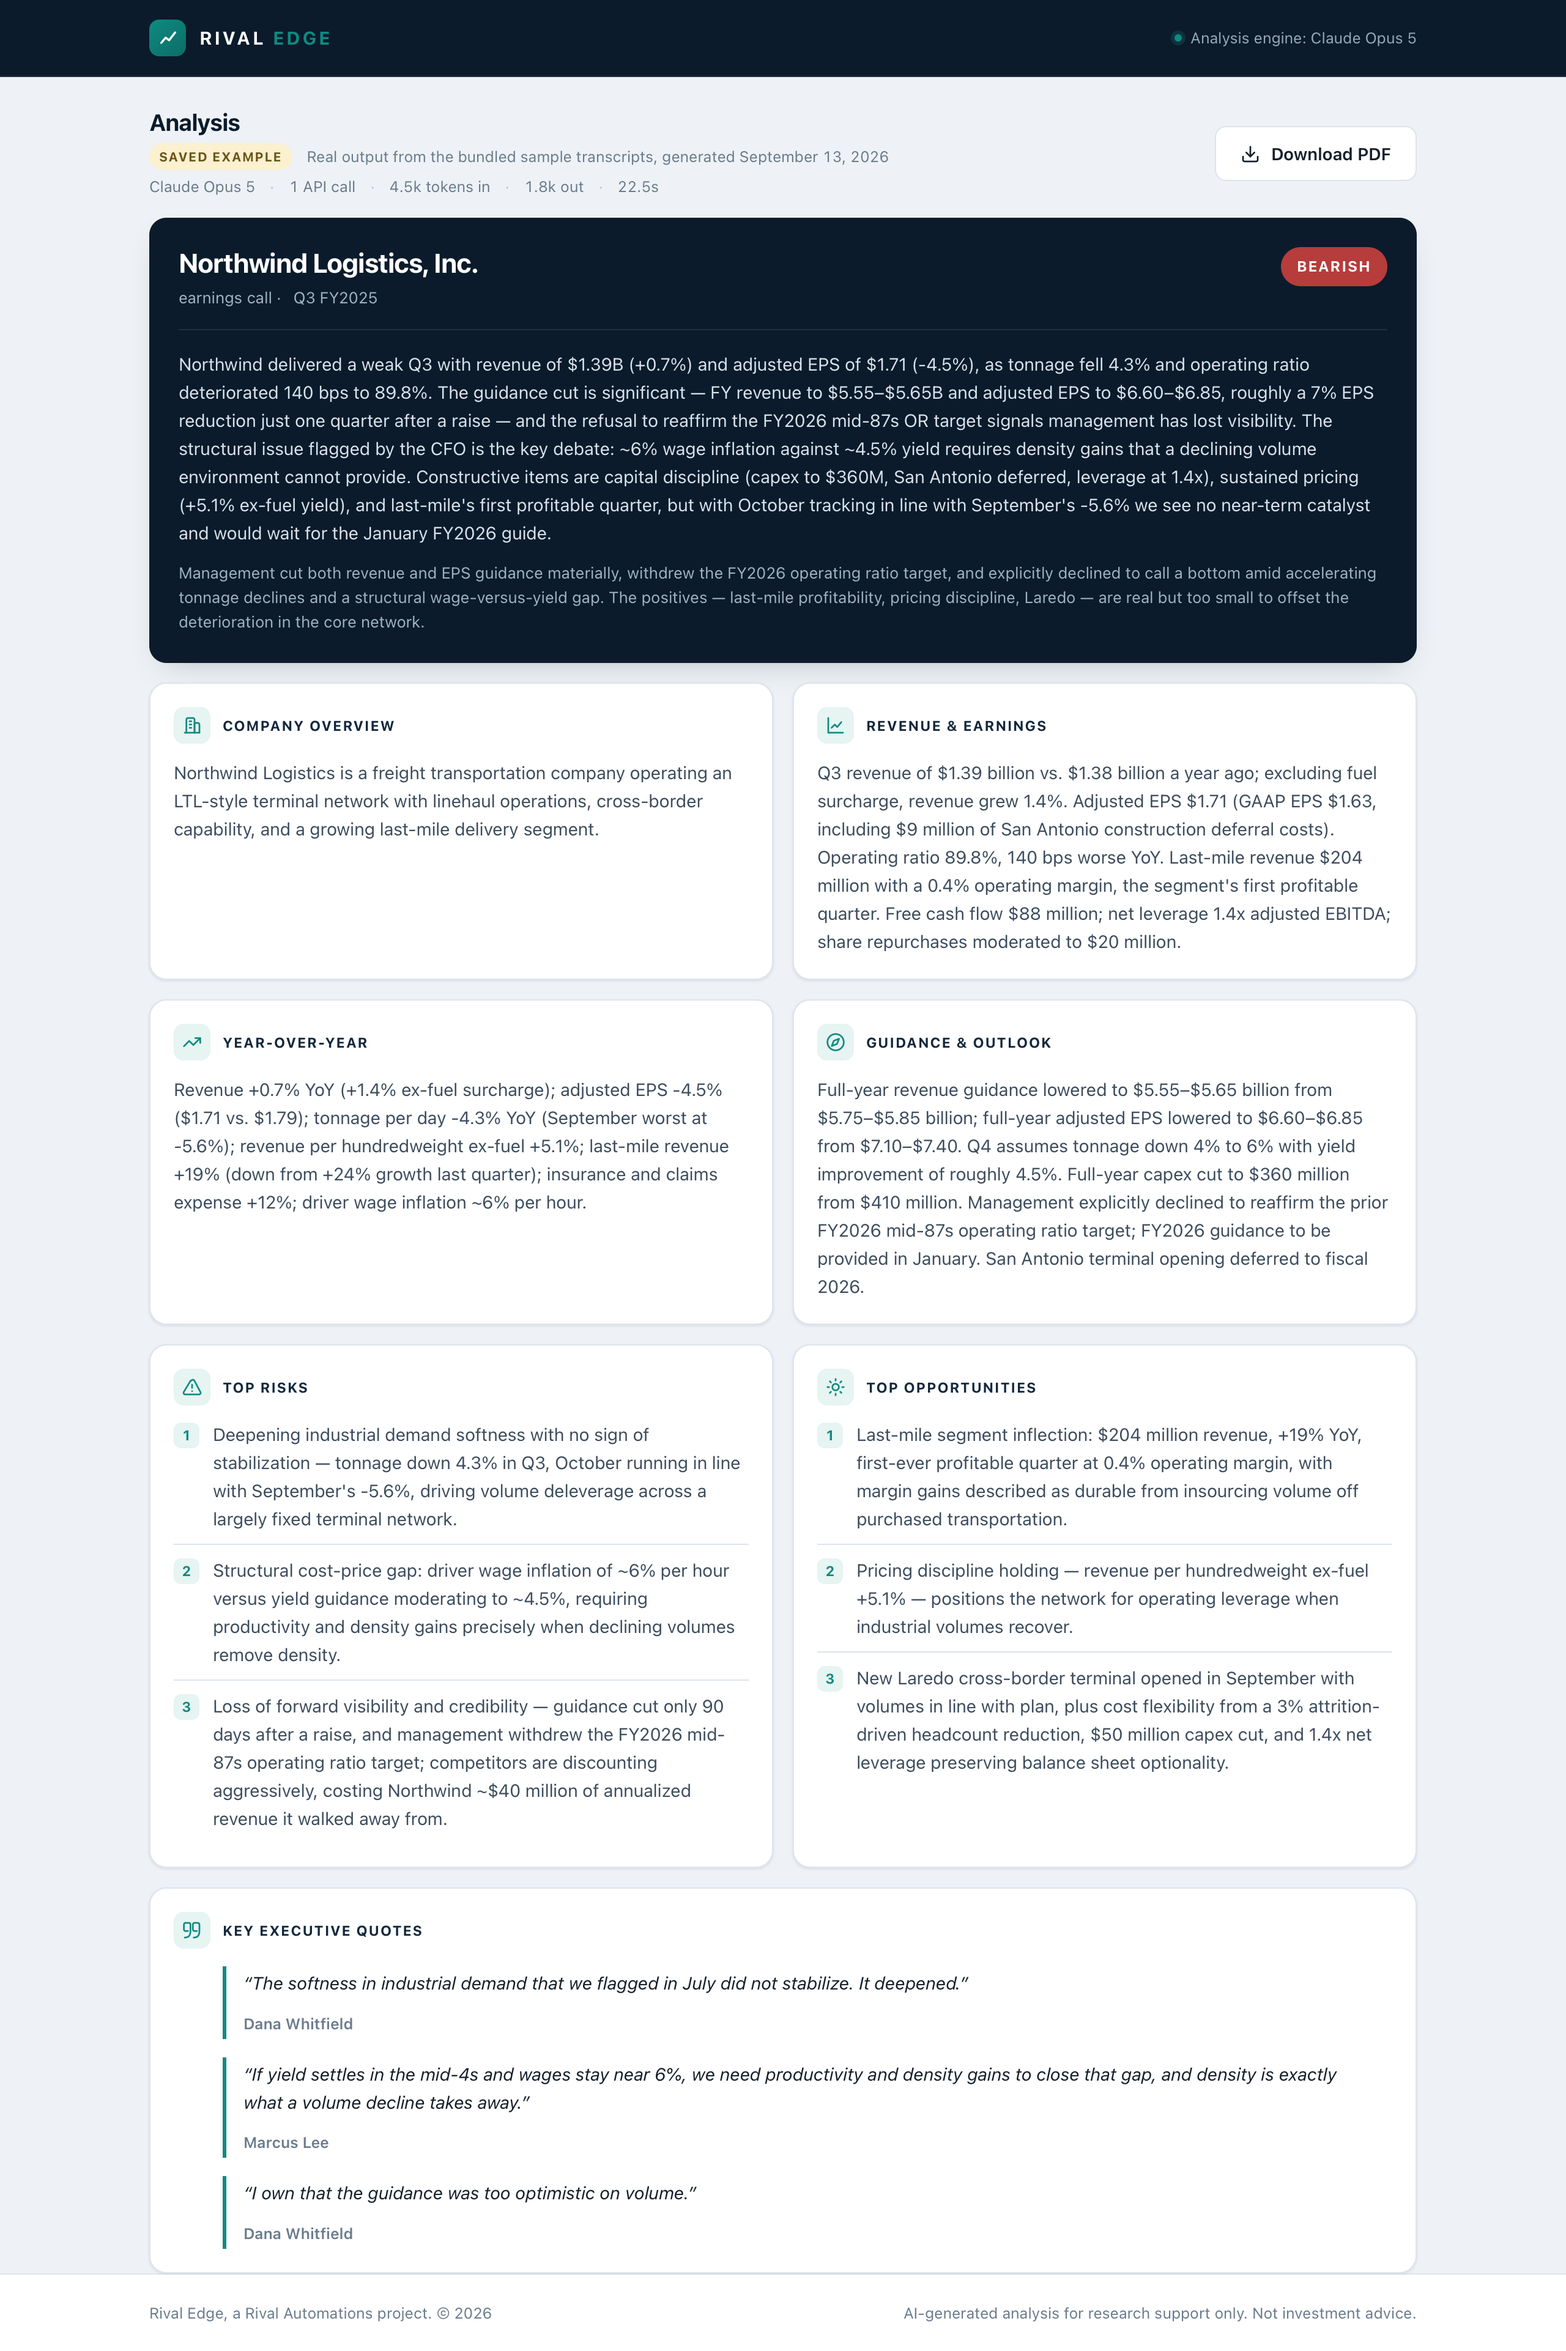
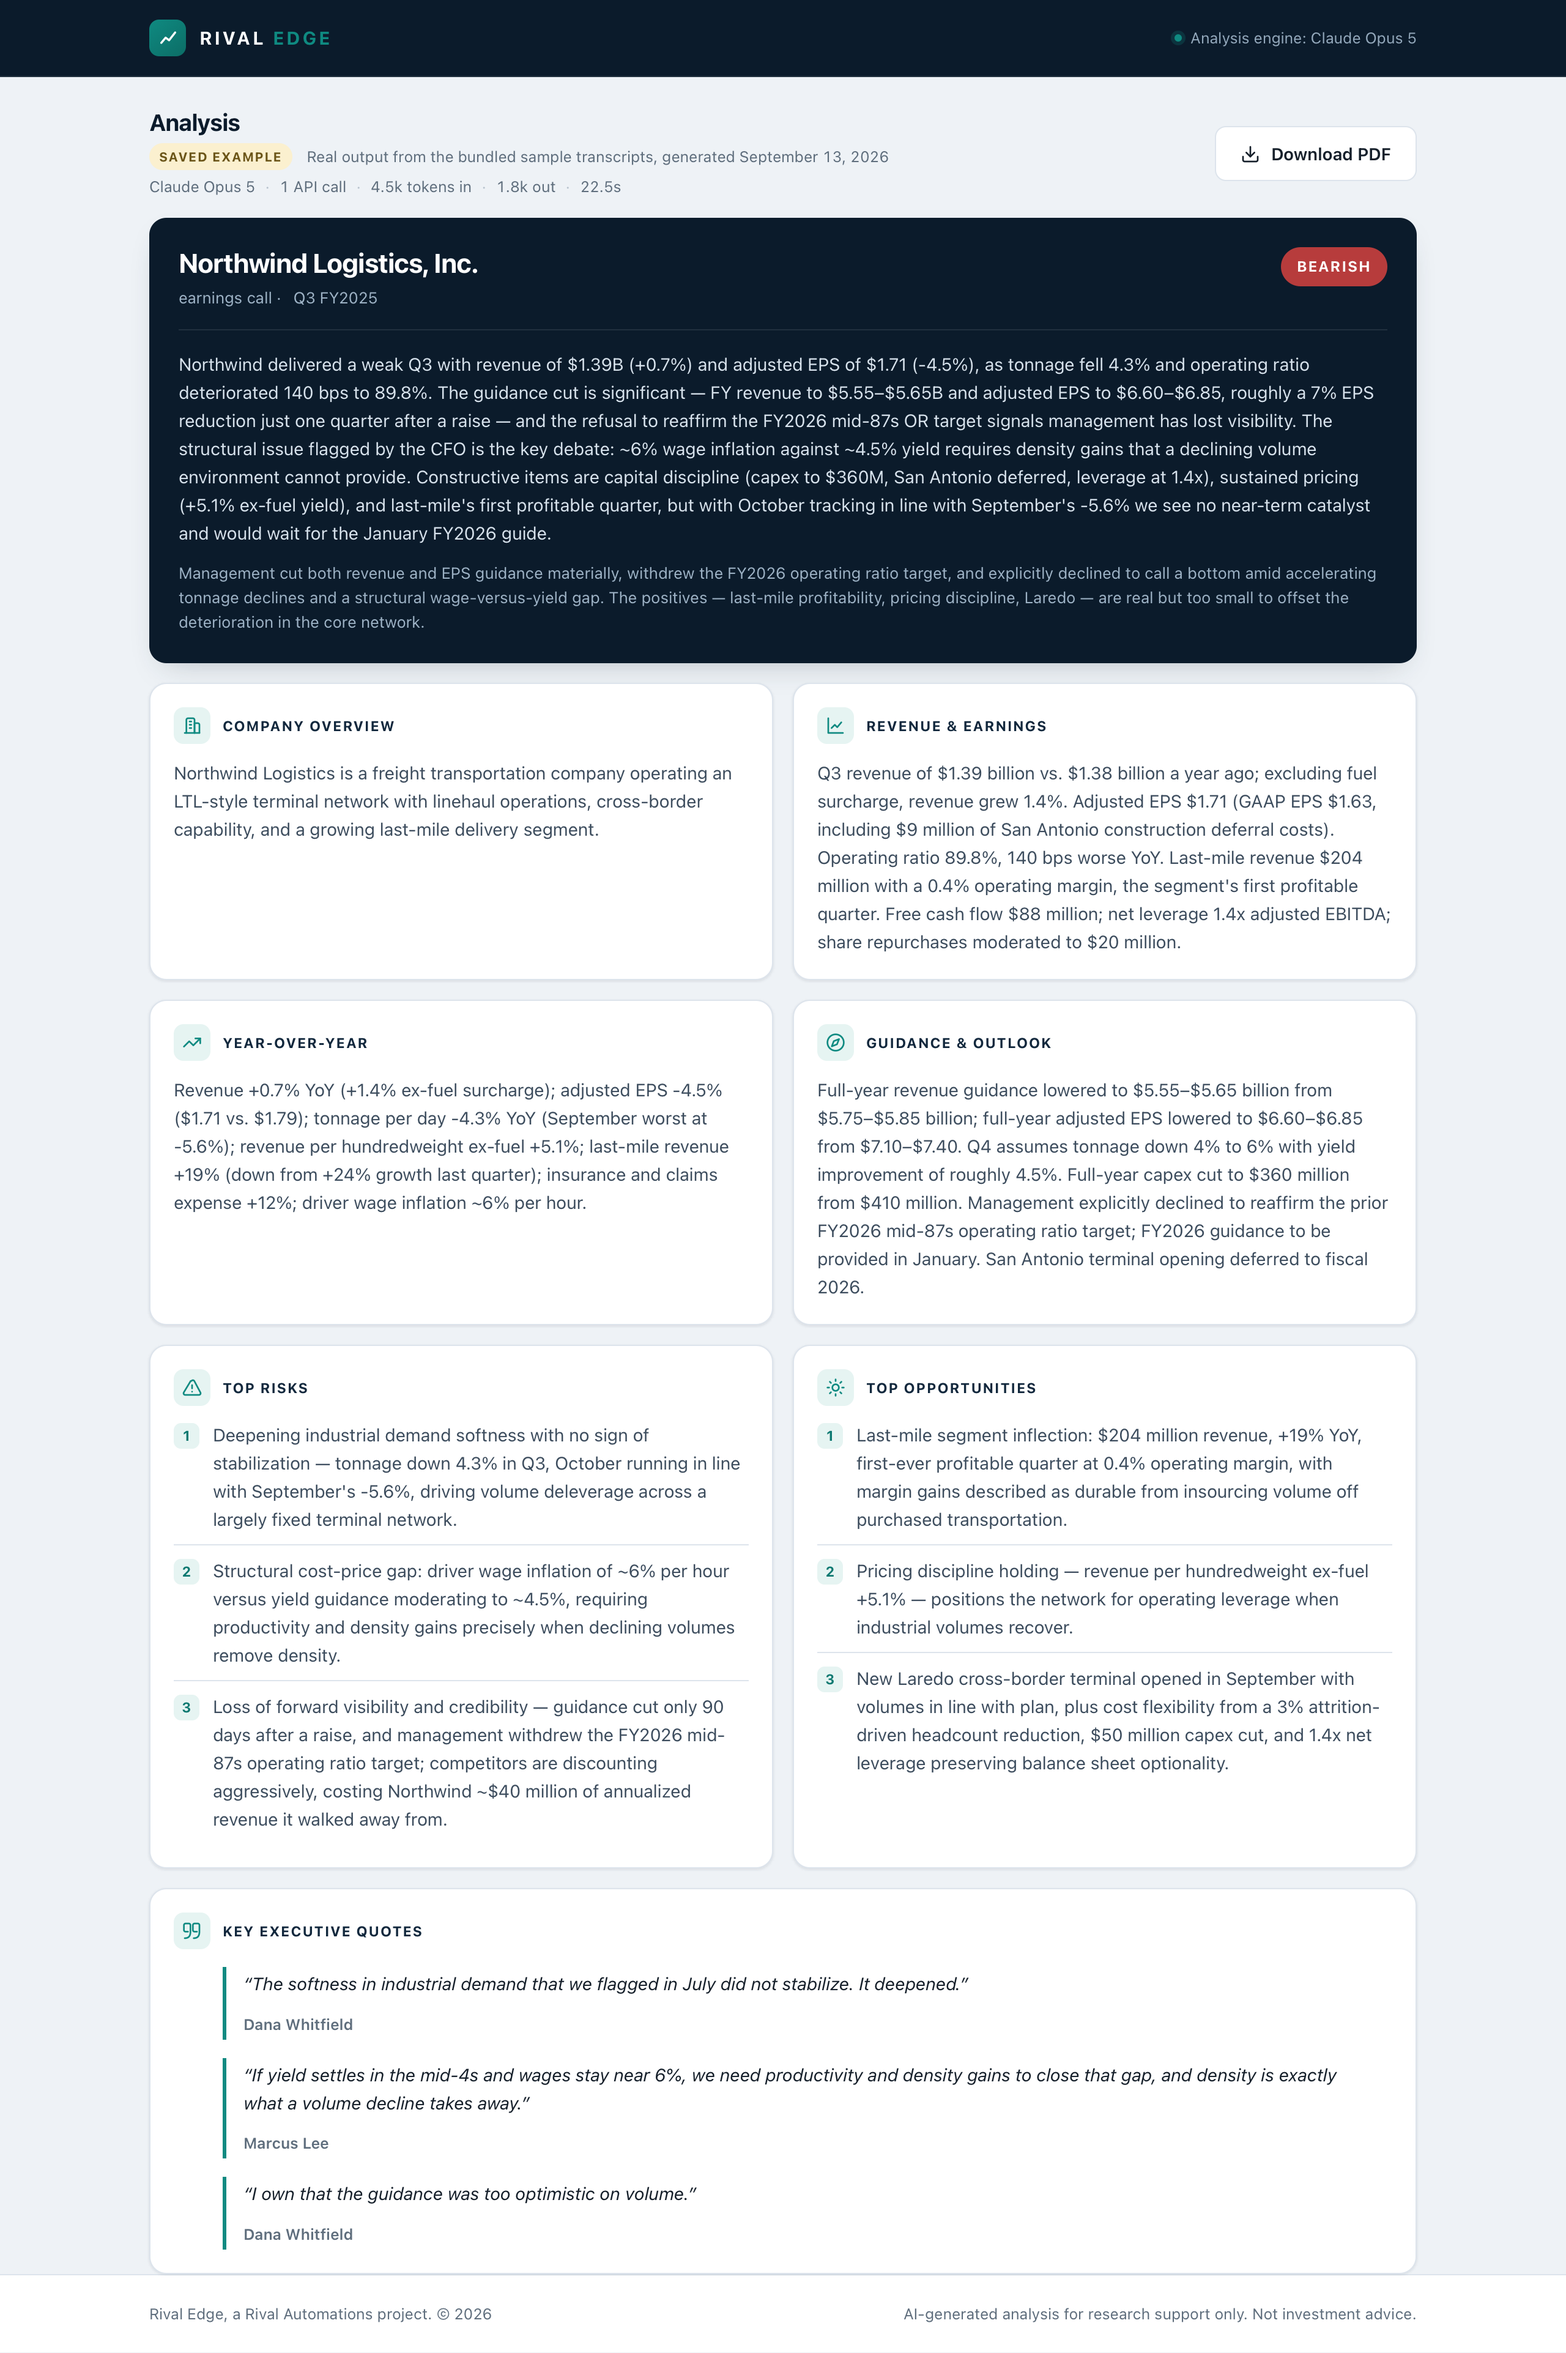
Meet WCAG AA text contrast; fix stats line wrapping on mobile
Muted text, teal labels and links, and white text on the bullish and
neutral badges were below the 4.5:1 AA ratio. Text now uses a darker teal
(--accent-ink) while graphics keep the brand teal. Badge and muted colors
are adjusted in both the web UI and the PDF report, and a test checks the
report palette.

On narrow screens the run-stats line could start a wrapped row with a
stray separator. Separators are now clipped at line starts wherever the
line breaks.

diff --git a/static/style.css b/static/style.css
@@ -15,14 +15,15 @@
 
   --ink: #16202b;
   --ink-soft: #3d4d5e;
-  --muted: #6b7c8d;
+  --muted: #5f6e7d;
   --rule: #dde4ec;
 
   --accent: #0f8a81;
+  --accent-ink: #0d7971; /* teal for text: passes WCAG AA on light surfaces */
   --accent-soft: #e6f4f2;
-  --bull: #0f8a81;
+  --bull: #0e837a;
   --bear: #b73c3c;
-  --neutral: #b0892e;
+  --neutral: #907025;
 
   --radius: 14px;
   --radius-sm: 9px;
@@ -231,7 +232,7 @@ main { padding-bottom: 64px; }
   font: inherit;
   font-size: 12.5px;
   font-weight: 600;
-  color: var(--accent);
+  color: var(--accent-ink);
   cursor: pointer;
   text-decoration: underline;
   text-decoration-color: rgba(15, 138, 129, 0.35);
@@ -339,7 +340,7 @@ textarea:focus, .dropzone:focus-visible, .tab:focus-visible, button:focus-visibl
   display: inline-flex; align-items: center; gap: 6px;
   font-size: 11px; font-weight: 700; letter-spacing: 0.07em;
   text-transform: uppercase;
-  color: var(--accent);
+  color: var(--accent-ink);
   background: var(--accent-soft);
   border-radius: 100px;
   padding: 3px 9px;
@@ -383,7 +384,7 @@ textarea:focus, .dropzone:focus-visible, .tab:focus-visible, button:focus-visibl
   color: var(--ink);
 }
 
-.btn--ghost:hover { border-color: var(--accent); color: var(--accent); }
+.btn--ghost:hover { border-color: var(--accent); color: var(--accent-ink); }
 
 .btn[disabled] { opacity: 0.55; cursor: not-allowed; transform: none; }
 
@@ -457,7 +458,7 @@ textarea:focus, .dropzone:focus-visible, .tab:focus-visible, button:focus-visibl
   font-weight: 700;
   letter-spacing: 0.06em;
   text-transform: uppercase;
-  color: var(--accent);
+  color: var(--accent-ink);
   background: var(--accent-soft);
   border-radius: 100px;
   padding: 2px 7px;
@@ -527,11 +528,23 @@ textarea:focus, .dropzone:focus-visible, .tab:focus-visible, button:focus-visibl
 
 .results__provenance:empty { display: none; }
 
-.usage { display: inline-flex; flex-wrap: wrap; gap: 4px 12px; }
+/* Every item carries a leading separator, and the list is shifted left inside
+   a clipping wrapper, so the separator that starts each wrapped line is hidden
+   wherever the line happens to break. */
+.usage { overflow: hidden; min-width: 0; }
 
-.usage > span + span::before {
+.usage__items {
+  display: flex;
+  flex-wrap: wrap;
+  row-gap: 4px;
+  margin-left: -20px;
+}
+
+.usage__items > span::before {
   content: "·";
-  margin-right: 12px;
+  display: inline-block;
+  width: 20px;
+  text-align: center;
   color: #b7c2cd;
 }
 
@@ -661,7 +674,7 @@ textarea:focus, .dropzone:focus-visible, .tab:focus-visible, button:focus-visibl
   width: 21px; height: 21px;
   border-radius: 6px;
   background: var(--accent-soft);
-  color: var(--accent);
+  color: var(--accent-ink);
   font-size: 11.5px; font-weight: 700;
   display: grid; place-items: center;
   margin-top: 2px;
@@ -718,7 +731,7 @@ textarea:focus, .dropzone:focus-visible, .tab:focus-visible, button:focus-visibl
   white-space: nowrap;
 }
 
-.trend--up { color: var(--bull); }
+.trend--up { color: var(--accent-ink); }
 .trend--down { color: var(--bear); }
 .trend--flat, .trend--unclear { color: var(--muted); }
 

diff --git a/static/app.js b/static/app.js
@@ -249,7 +249,7 @@
       `${compactNumber(usage.output_tokens)} out`,
       `${usage.elapsed_seconds}s`
     ].filter(Boolean).map((part) => `<span>${escapeHtml(part)}</span>`).join("");
-    return `<span class="usage">${parts}</span>`;
+    return `<span class="usage"><span class="usage__items">${parts}</span></span>`;
   };
 
   function renderAnalysis(data) {

diff --git a/tests/test_report.py b/tests/test_report.py
@@ -62,3 +62,19 @@ def test_paragraphs_are_left_aligned_not_justified():
 
     source = inspect.getsource(report)
     assert source.count("multi_cell(") == source.count('align="L"')
+
+
+def _contrast(fg: tuple[int, int, int], bg: tuple[int, int, int]) -> float:
+    def luminance(rgb):
+        channels = [c / 255 for c in rgb]
+        linear = [c / 12.92 if c <= 0.03928 else ((c + 0.055) / 1.055) ** 2.4 for c in channels]
+        return 0.2126 * linear[0] + 0.7152 * linear[1] + 0.0722 * linear[2]
+
+    high, low = sorted((luminance(fg), luminance(bg)), reverse=True)
+    return (high + 0.05) / (low + 0.05)
+
+
+def test_report_text_colors_meet_wcag_aa():
+    white = (255, 255, 255)
+    for name in ("INK", "SLATE", "MUTED", "ACCENT", "BULLISH", "BEARISH", "NEUTRAL"):
+        assert _contrast(getattr(report, name), white) >= 4.5, name

diff --git a/report.py b/report.py
@@ -13,16 +13,16 @@ from typing import Any
 from fpdf import FPDF
 from fpdf.enums import XPos, YPos
 
-# Brand palette, mirrored in static/style.css
+# Brand palette, mirrored in static/style.css. Text colors meet WCAG AA (4.5:1) on white.
 NAVY = (11, 27, 43)
 SLATE = (46, 63, 82)
 INK = (26, 32, 44)
-MUTED = (110, 124, 140)
+MUTED = (95, 110, 125)
 RULE = (214, 221, 229)
-ACCENT = (16, 138, 129)
-BULLISH = (16, 138, 129)
+ACCENT = (13, 121, 113)
+BULLISH = (14, 131, 122)
 BEARISH = (183, 60, 60)
-NEUTRAL = (176, 137, 46)
+NEUTRAL = (144, 112, 37)
 
 BADGE_COLORS = {
     "Bullish": BULLISH,
